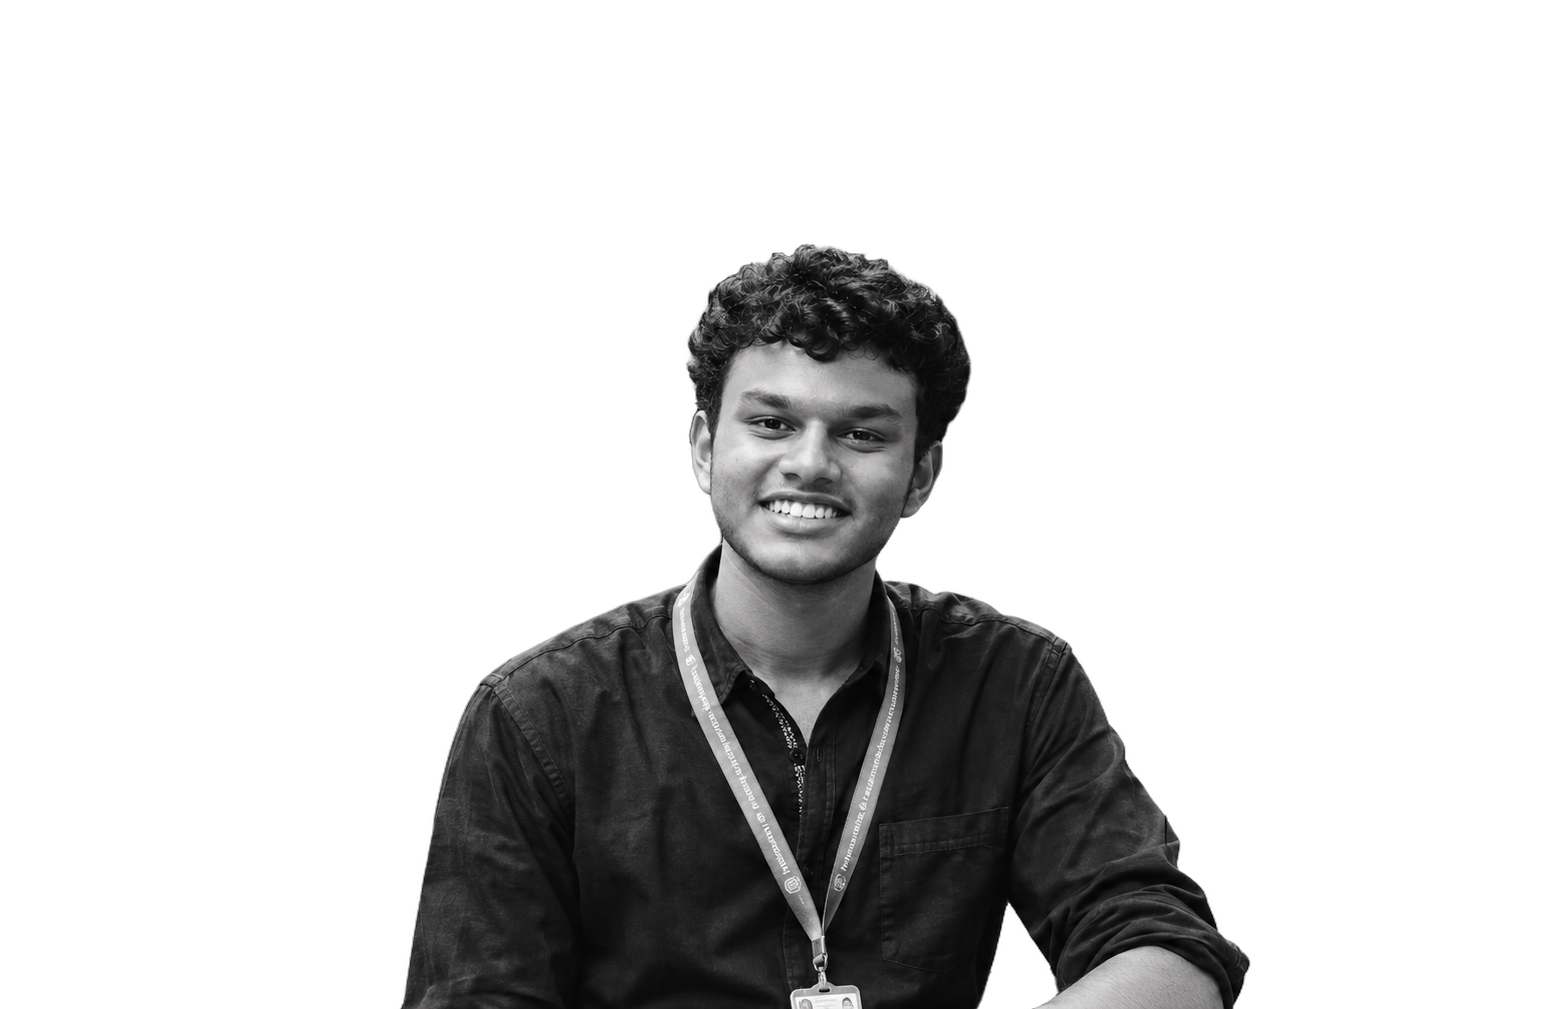
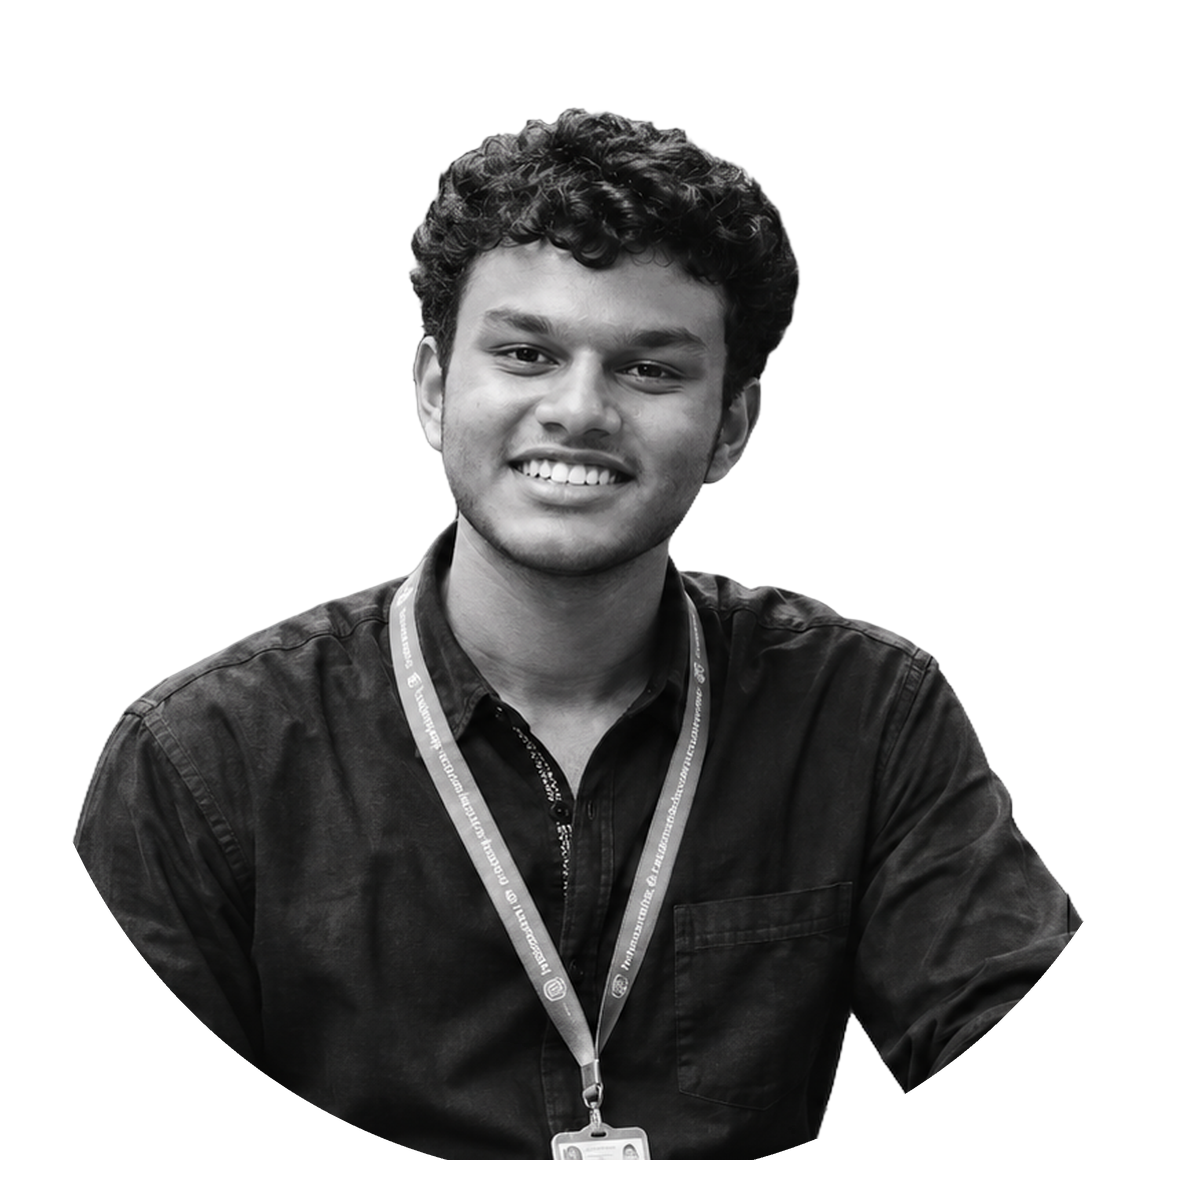
fix: contain portrait inside circular frame stage with fluid typography sizing

diff --git a/src/sections/Hero.tsx b/src/sections/Hero.tsx
@@ -26,44 +26,38 @@ export const Hero: React.FC = () => {
         +
       </div>
 
-      {/* Layer 0: Independent Atmosphere / Aura Circle matching the reference */}
-      <div
-        aria-hidden="true"
-        className="pointer-events-none absolute top-1/2 left-1/2 -translate-x-1/2 -translate-y-[48%] w-[320px] sm:w-[480px] md:w-[600px] lg:w-[660px] aspect-square rounded-full bg-[#EAEAEA]/80 z-0 select-none"
-      />
-
+      {/* Layer 10 & 20: Display Typography & Responsive Circular Portrait Stage */}
       <div className="max-w-7xl mx-auto px-4 sm:px-6 lg:px-8 w-full relative my-auto">
-        {/* Layer 10 & 20: Display Typography & Transparent Portrait Composition */}
         <div className="relative w-full flex items-center justify-center select-none pt-4 sm:pt-6 min-h-[340px] sm:min-h-[460px] md:min-h-[540px]">
-          {/* Layer 10: Live HTML Condensed Typography — Single Line Baseline on Desktop */}
+          {/* Layer 10: Live HTML Condensed Typography — Guaranteed Single Line Baseline on Desktop */}
           <motion.div
             variants={heroNameVariant}
             initial="hidden"
             animate="visible"
-            className="relative z-10 w-full flex flex-col sm:flex-row flex-nowrap items-center sm:items-baseline justify-center whitespace-nowrap gap-x-[3.5vw] leading-none text-center select-none"
+            className="relative z-10 w-full flex flex-col sm:flex-row flex-nowrap items-center sm:items-baseline justify-center whitespace-nowrap gap-x-[3vw] leading-none text-center select-none"
           >
             {/* Outlined SAI */}
-            <h1 className="font-display name-outline text-[22vw] sm:text-[18vw] md:text-[16vw] lg:text-[15.5vw] uppercase tracking-normal leading-[0.84] select-none">
+            <h1 className="font-display name-outline text-[20vw] sm:text-[clamp(4rem,11.5vw,12.5rem)] uppercase tracking-normal leading-[0.84] select-none">
               SAI
             </h1>
 
             {/* Solid GOUTHAM */}
-            <span className="font-display text-[#0A0909] text-[22vw] sm:text-[18vw] md:text-[16vw] lg:text-[15.5vw] uppercase tracking-normal leading-[0.84] select-none">
+            <span className="font-display text-[#0A0909] text-[20vw] sm:text-[clamp(4rem,11.5vw,12.5rem)] uppercase tracking-normal leading-[0.84] select-none">
               GOUTHAM
             </span>
           </motion.div>
 
-          {/* Layer 20: Authentic Transparent Portrait Cutout */}
+          {/* Layer 20: Responsive Circular Portrait Frame & Stage (Entire portrait contained in circle) */}
           <motion.div
             variants={heroPortraitVariant}
             initial="hidden"
             animate="visible"
-            className="absolute top-1/2 left-1/2 -translate-x-1/2 -translate-y-[38%] w-[300px] sm:w-[420px] md:w-[520px] lg:w-[580px] pointer-events-none z-20 flex items-center justify-center"
+            className="absolute top-1/2 left-1/2 -translate-x-1/2 -translate-y-[40%] w-[min(80vw,310px)] sm:w-[410px] md:w-[470px] lg:w-[530px] xl:w-[570px] aspect-square rounded-full bg-[#ECECEC] overflow-hidden pointer-events-none z-20 flex items-center justify-center shadow-xs"
           >
             <img
               src={portraitCutout}
               alt="Sai Goutham"
-              className="w-full h-auto object-contain filter contrast-105 drop-shadow-md select-none"
+              className="w-full h-full object-cover select-none pointer-events-none"
               loading="eager"
             />
           </motion.div>
